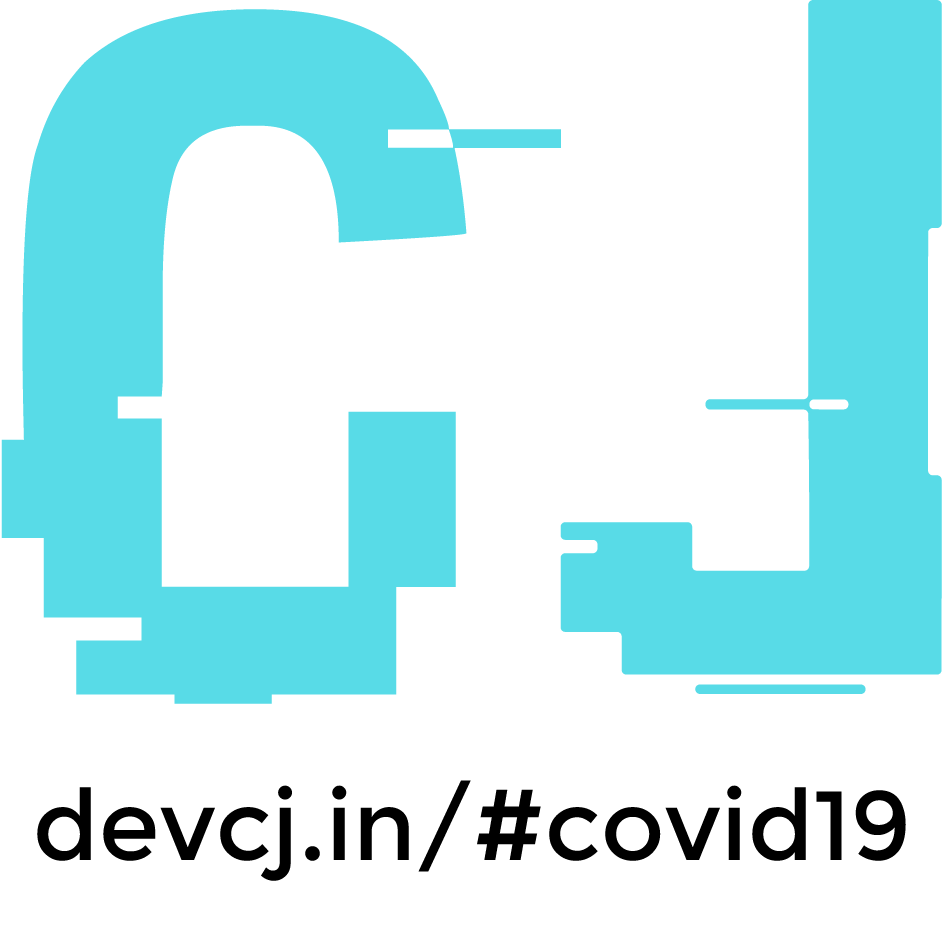
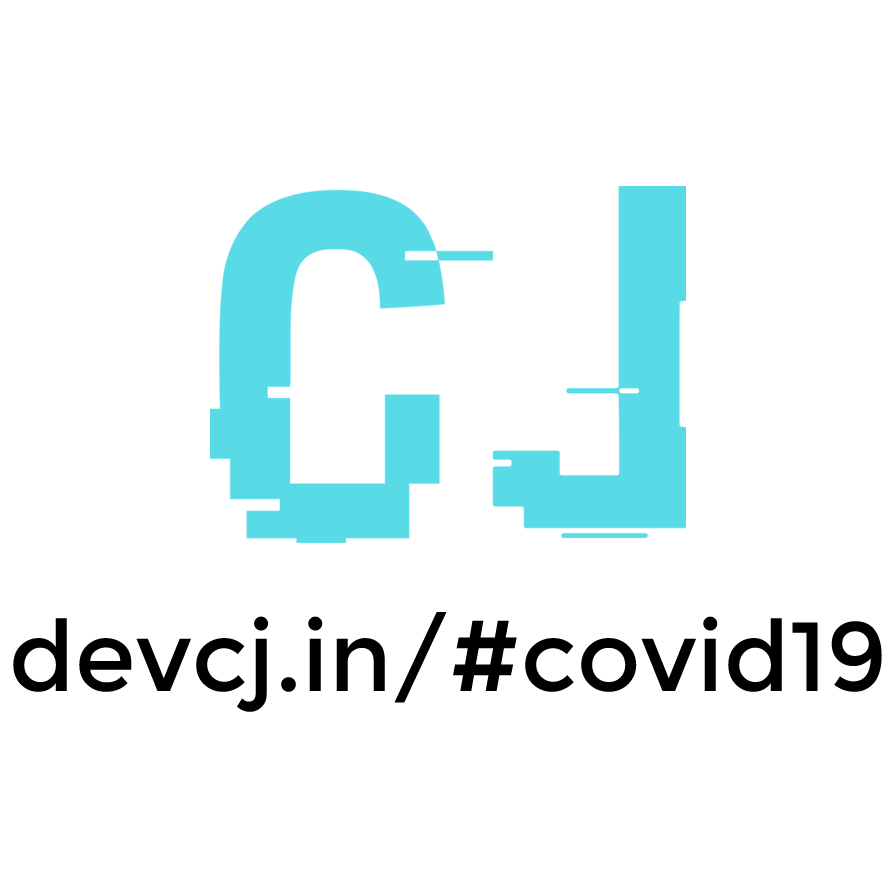
watermark added

diff --git a/src/redux/reducer/plotReducer.js b/src/redux/reducer/plotReducer.js
@@ -42,9 +42,9 @@ const plotReducer = (state = initialState, action) => {
                 yref: 'paper',
                 x: 0,
                 y: 0.9,
-                sizex: 0.1,
-                sizey: 0.1,
-                opacity: 0.1,
+                sizex: 0.3,
+                sizey: 0.3,
+                opacity: 0.3,
                 layer: 'below',
               },
             ],
